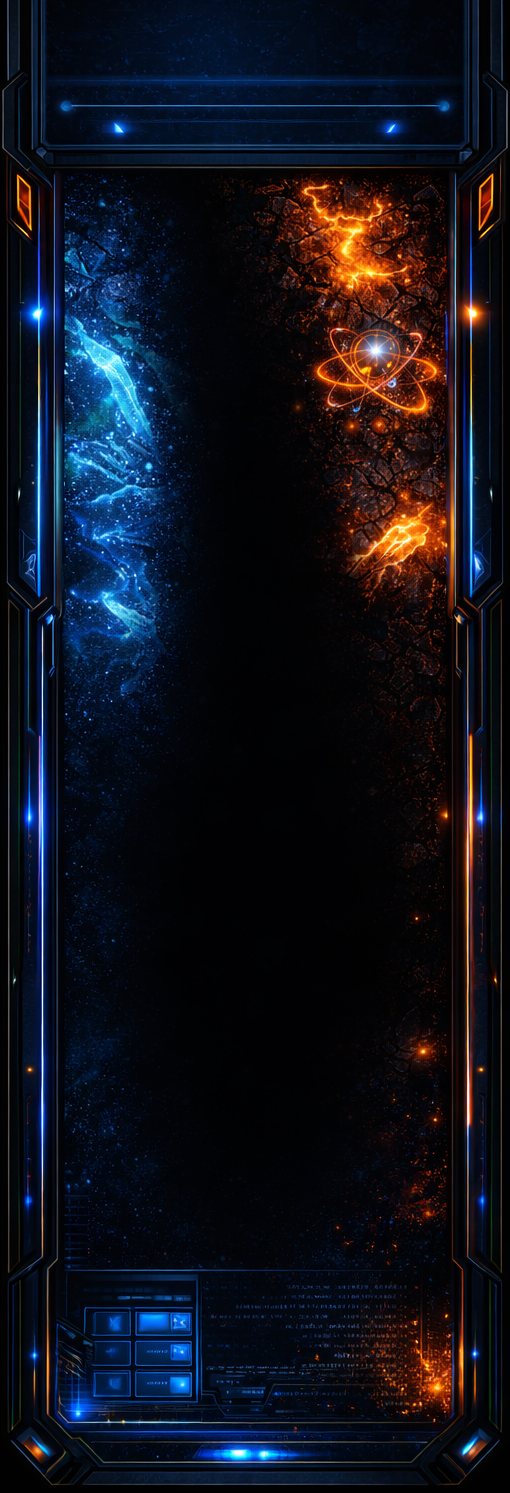
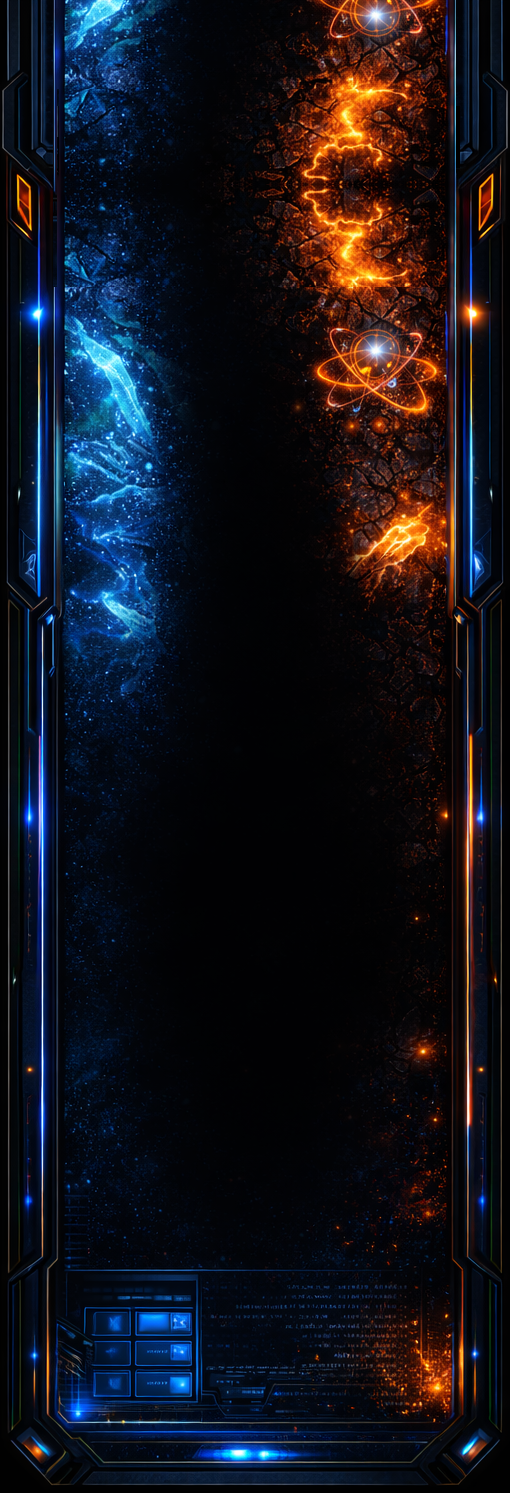
Add files via upload

Changed region(s): [[0.0882, 0.0, 0.9118, 0.2157]]

diff --git a/index.css b/index.css
@@ -62,7 +62,7 @@ body {
   overflow-y: auto;           /* scroll if content exceeds */
 
   /* Background image settings */
-  background-image: url(side-bar.png?v=2);
+  background-image: url(side-bar.png?v=4);
   background-repeat: no-repeat;
   background-position: top left;
 

diff --git a/index.html b/index.html
@@ -11,7 +11,7 @@ NOTES: Sidebar fixed in left table cell; content in right cell; dropdowns scroll
 <head>
 <meta charset="UTF-8">
 <title>MercWar Standard C & WinAPI Tutorial</title>
-<link rel="stylesheet" href="index.css?v=63">
+<link rel="stylesheet" href="index.css?v=64">
 <link rel="stylesheet" href="index1.css?v=61">
 <link rel="stylesheet" href="rru_gx.css?v=49">
 </head>